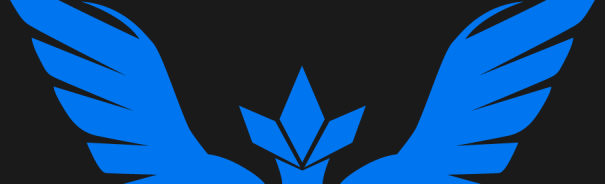
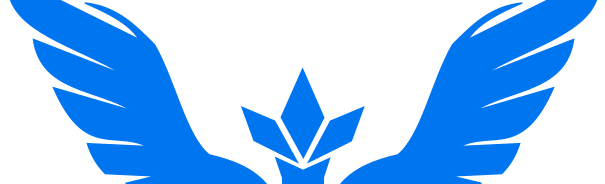
Quelques updates.
Création du header en SVG.
Export du header refait.
Ajout de blanc dans la front page.
Ajout des faces des admins dans la front page.

diff --git a/fr/index.html b/fr/index.html
@@ -8,30 +8,29 @@
 <header>
     <div class="logo"><img src=/header.png></div>
     <div class="title">
-        <p>MystiQC</p>
-        <p>Apprendre. Adapter. Évoluer.</p>
+        <p>Mysti<span style="color:white">QC</span></p>
+        <p>Apprendre - Adapter - <span style="color:white">Évoluer</span></p>
     </div>
 </header>
 
 <main>
-    <p>
-        MystiQC est une équipe de joueurs de Pokémon Go de la ville de Québec, Canada.
+    <p>MystiQC est une équipe de joueurs de Pokémon Go de la ville de Québec, Canada.
 
-    <p>
-        Nos membres recherchent et partagent les informations qui permettent d'améliorer nos techniques de dresseurs Pokémons. Nous croyons en la compétition amicale et le respect. Notre groupe est principalement constitué d'adulte, geek et gamers.
+    <p>Nos membres recherchent et partagent les informations qui permettent d'améliorer nos techniques de dresseurs Pokémons. Nous croyons en la compétition amicale et le respect. Notre groupe est principalement constitué d'adulte, geek et gamers.
 
-    <p>
-    Nous utilions <a href="https://slack.com/">Slack</a> pour nos communications. Le logiciel archive nos conversations, les documents et les fichiers que nous partageons. Il permet aussi de créer et de partager de documents collaboratifs.
+    <p>Nous utilions <a href="https://slack.com/">Slack</a> pour nos communications. Le logiciel archive nos conversations, les documents et les fichiers que nous partageons. Il permet aussi de créer et de partager de documents collaboratifs.
 
-    <p>
-        Pour joindre l'équipe contactez un des maître dresseur.
-        <ul>
-            <li><a href="https://fb.me/anthhony.butlertremblay">arcatwo</a>
-            <li><a href="https://fb.me/akeif.me">akeif</a>
-        </ul>
+    <p>Pour joindre l'équipe contactez un des maître dresseur.
 
-        Assurez vous d'avoir des captures d'écrans de votre profil Pokémon Go disponibles.
+    <table class="admins">
+        <tr>
+            <td><a href="https://fb.me/anthhony.butlertremblay"><img src=/imgs/arcatwo.png></a></td>
+            <td><a href="https://fb.me/akeif.me"><img src=/imgs/akeif.png></a></td>
+        </tr>
+    </table>
 
-    <p>
-        Bon jeu. Soyez prudent et respectueux.
+    <p>Assurez vous d'avoir des captures d'écrans de votre profil Pokémon Go disponibles.
+
+    <p>Bon jeu. Soyez prudent et respectueux.
+
 </main>

diff --git a/main.css b/main.css
@@ -1,5 +1,5 @@
 body {
-    color: #1a1a1a;
+    color: black;
     background-color: #0075f0;
     margin: 0;
 }
@@ -26,6 +26,15 @@ header .title p {
 
 header .title p:first-child {
     font-size: 2em;
+}
+
+.admins {
+    width: 100%;
+    text-align: center;
+}
+.admins img {
+    border: 4px solid white;
+    border-radius: 4px;
 }
 
 main, footer {
